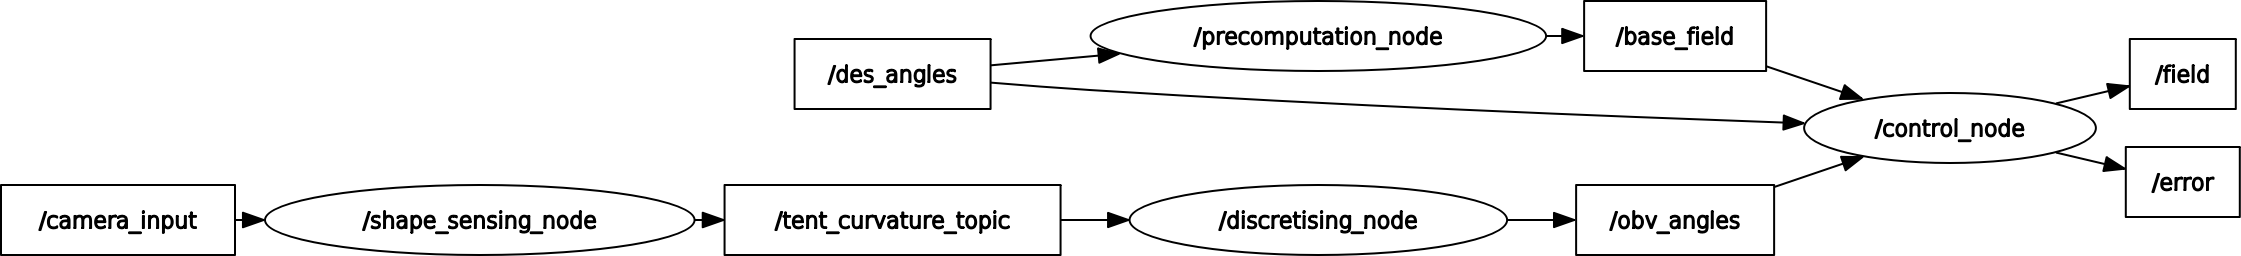
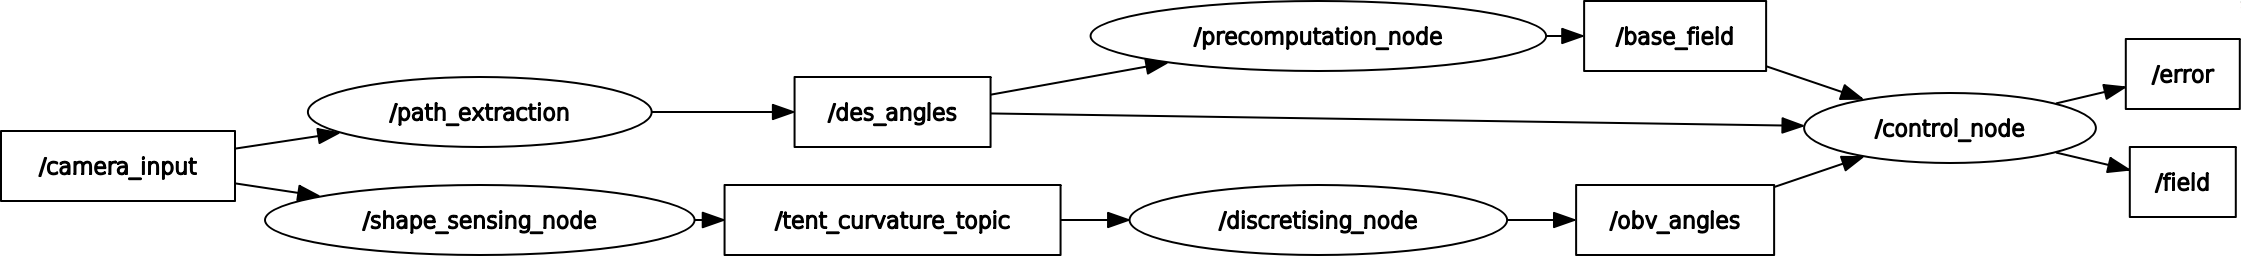
skeleton wired up

diff --git a/src/path_extractor.cpp b/src/path_extractor.cpp
@@ -1,0 +1,34 @@
+#include <ros/ros.h>
+#include <sensor_msgs/Image.h>
+#include <adaptive_ctrl/rl_angles.h>
+
+class CameraSubscriber
+{
+public:
+    CameraSubscriber()
+    {
+        ros::NodeHandle nh;
+        camera_sub_ = nh.subscribe("/camera_input", 10, &CameraSubscriber::cameraCallback, this);
+        des_angles_pub_ = nh.advertise<adaptive_ctrl::rl_angles>("/des_angles", 10);
+    }
+
+    void cameraCallback(const sensor_msgs::Image::ConstPtr& msg)
+    {
+        // Process the camera input here
+    }
+
+private:
+    ros::Subscriber camera_sub_;
+    ros::Publisher des_angles_pub_;
+};
+
+int main(int argc, char** argv)
+{
+    ros::init(argc, argv, "camera_subscriber");
+
+    CameraSubscriber camera_subscriber;
+
+    ros::spin();
+
+    return 0;
+}

diff --git a/README.md b/README.md
@@ -17,8 +17,10 @@ Instructions on how to install and set up the project.
 ### To-Do
 
 - [x] Annotate Discretisation Node
-- [ ] Wire up all the nodes, implementation follows later.
+- [x] Wire up all the nodes, implementation follows later.
+  - [x] Centre-line extractor
 - [ ] Implement precomputation node
+  - [ ] Ensure field precals are trigger-based
 - [ ] Implement error calculating node
 - [ ] Implement control loop node
 - [ ] Implement path extractor node
@@ -36,7 +38,7 @@ Instructions on how to install and set up the project.
 
 - [Discretisation Node](scripts/discretising_node.py) Takes a centre-line using service [DiscreteCurve](srv/DiscretiseCurve.srv) and publishes its rigid-link joint representation through [rl_angles](msg/rl_angles.msg). The number of joints is currently hardcoded, but should be passed in [DiscreteCurve](srv/DiscretiseCurve.srv) call, this will likely be an integer advertised by the [Control Loop](src/control_loop.cpp).
 
-- [Path extractor node](src/path_extractor.cpp) Takes in an image of the phantom and calculates a center-line, which is then translated to joint desired joint angles, which arefed to the [precomputation node](src/precomputation_node.cpp).
+- [Path extractor node](src/path_extractor.cpp) Takes in an image of the phantom and calculates a centre-line, which is then translated to joint desired joint angles, which arefed to the [precomputation node](src/precomputation_node.cpp).
 
 ### Node graph
 
